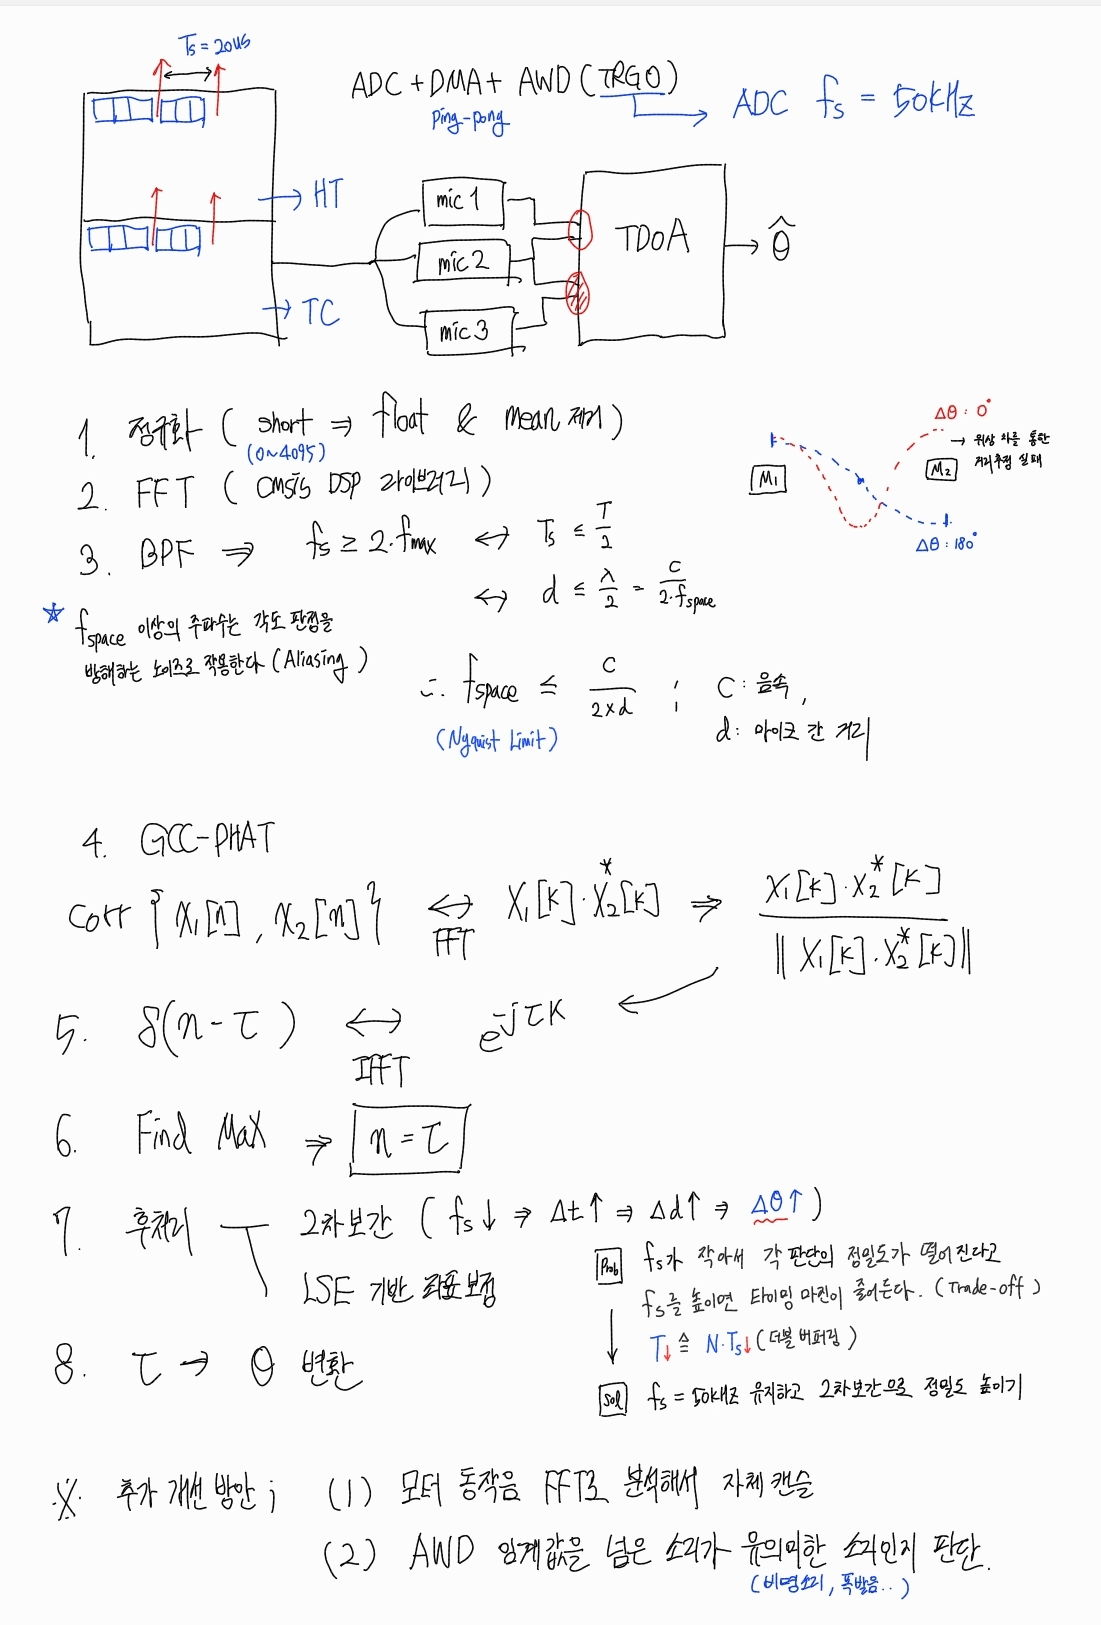
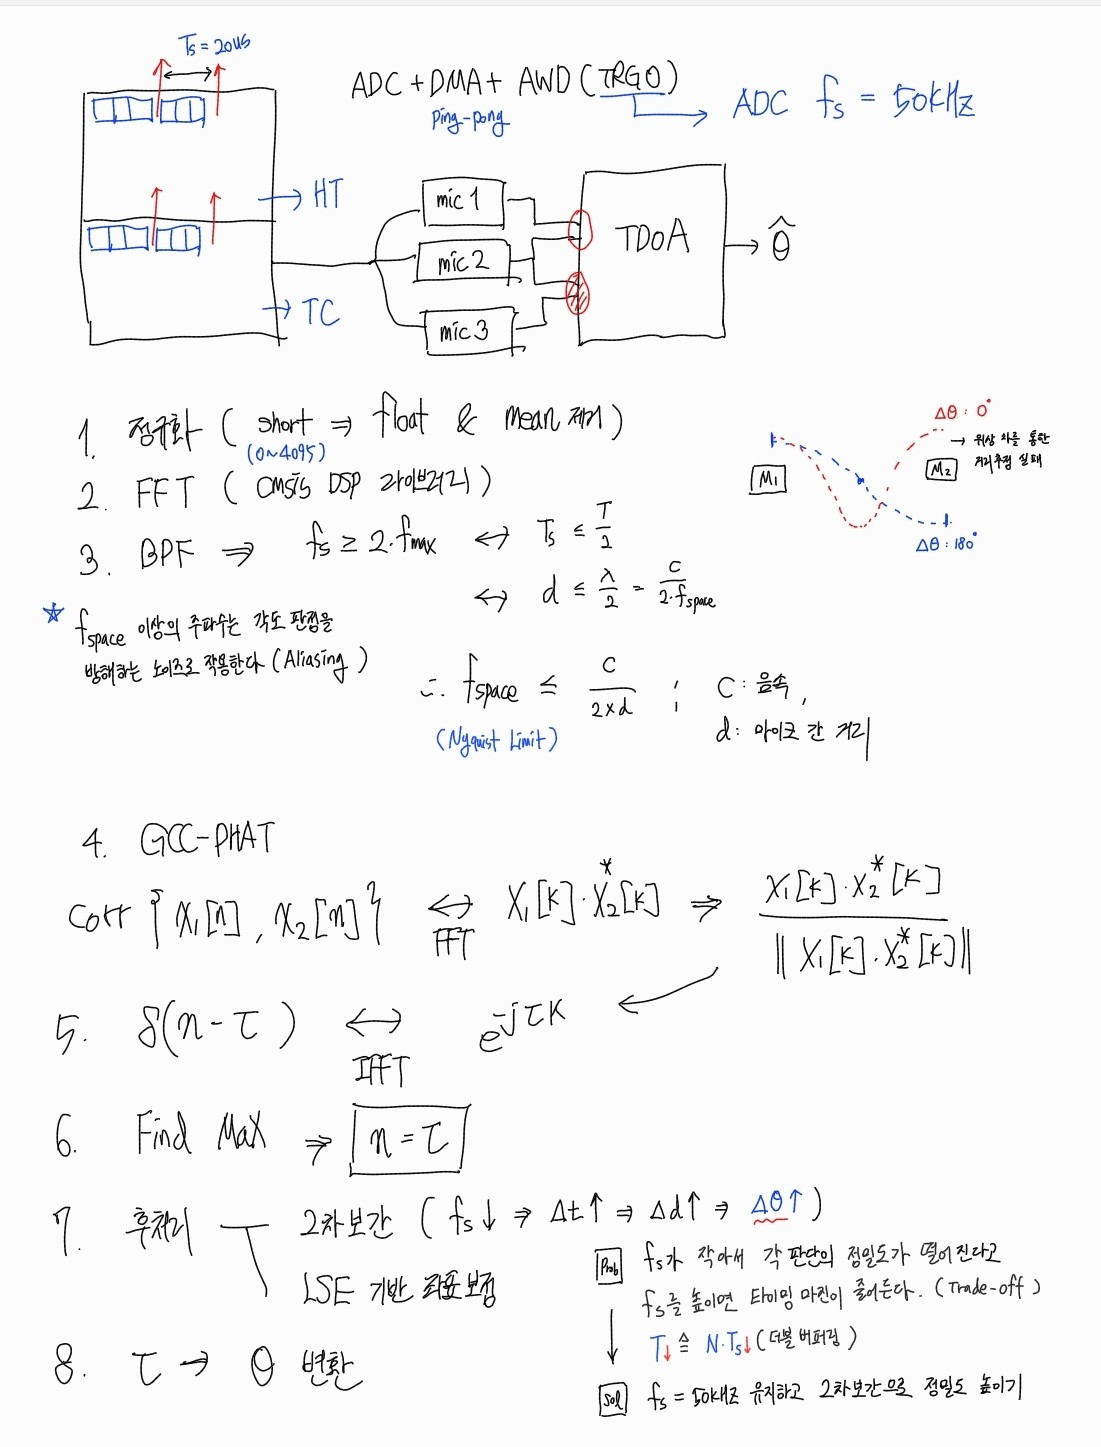
waveform

diff --git a/README.md b/README.md
@@ -1,5 +1,6 @@
-Angle 디버깅 영상: <br>
-https://www.youtube.com/watch?v=o7CY6T9-OOM
+MIC ADC 파형(STM32CUBE MONITOR): https://youtu.be/I4O-Yyo_uQk
+
+<br> Angle 디버깅: https://www.youtube.com/watch?v=o7CY6T9-OOM
 
 <h2>마이크 배치 (정삼각형)</h2>
 <img src="desc/3-mic.jpg">
